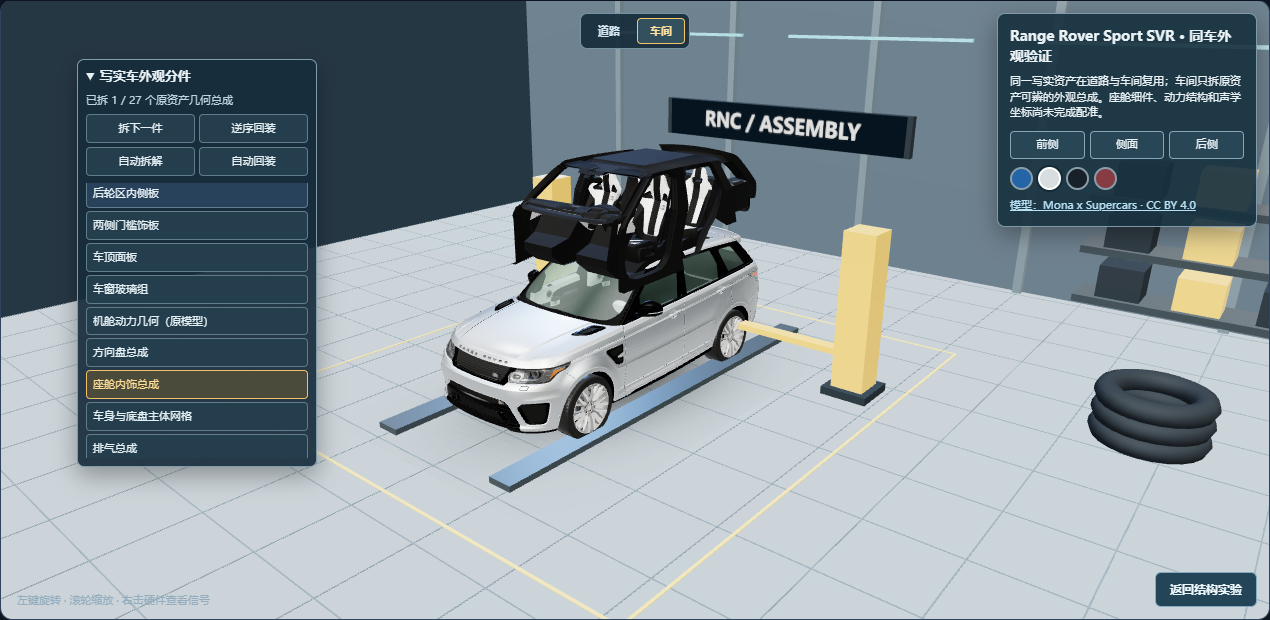
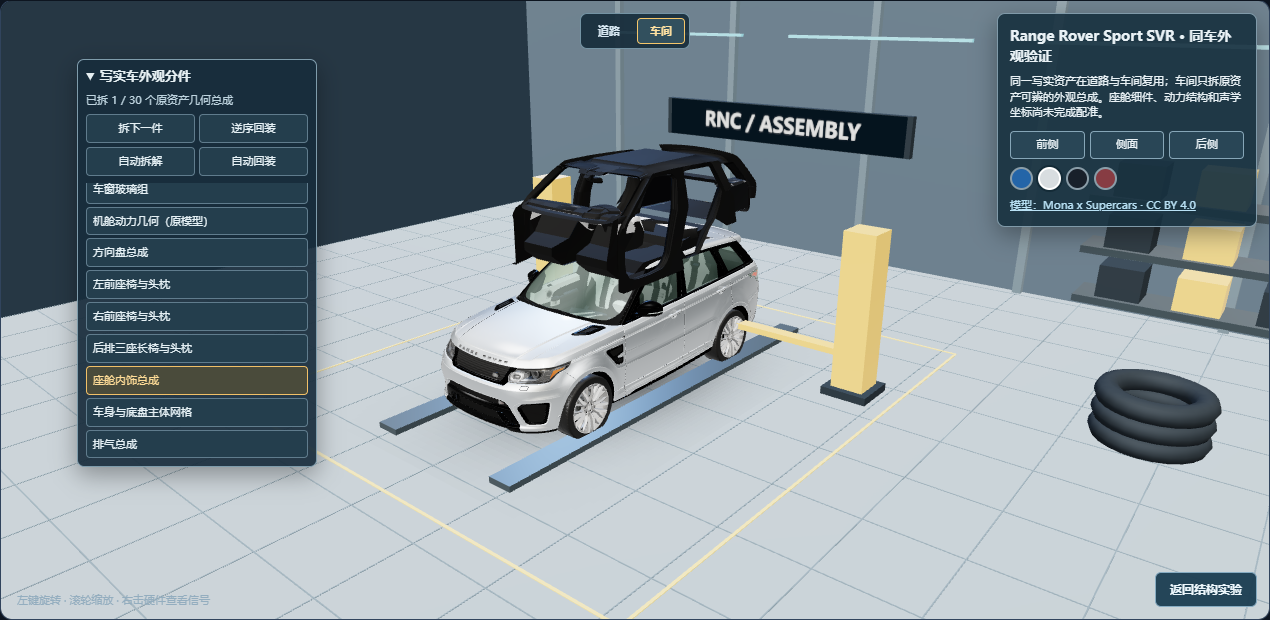
feat(a2): separate authored SUV seats and audit acoustic fit

Changed region(s): [[0.0614, 0.2758, 0.2457, 0.7355], [0.4606, 0.2758, 0.5835, 0.5516]]

diff --git a/docs/evidence/A2/A2-FULL-016/qa-real-parts.playwright-cli.js b/docs/evidence/A2/A2-FULL-016/qa-real-parts.playwright-cli.js
@@ -39,13 +39,18 @@ async (page) => {
   await page.locator('#lab-viewer').screenshot({ path: 'docs/evidence/A2/A2-FULL-016/real-workshop-interior.png' });
   await page.locator('#lab-reset').click();
   const afterReset = await panel.locator('p').innerText();
+  for (const seat of ['front-left', 'front-right', 'rear-bench']) await panel.locator(`[data-part="seat-${seat}"]`).click();
+  await page.waitForTimeout(850);
+  const afterThreeSeats = await panel.locator('p').innerText();
+  await page.locator('#lab-viewer').screenshot({ path: 'docs/evidence/A2/A2-FULL-016/real-workshop-three-seats.png' });
+  await page.locator('#lab-reset').click();
   for (const corner of ['fl', 'fr', 'rl', 'rr']) await panel.locator(`[data-part="wheel-${corner}"]`).click();
   await page.waitForTimeout(850);
   const afterFourWheels = await panel.locator('p').innerText();
   await page.locator('#lab-viewer').screenshot({ path: 'docs/evidence/A2/A2-FULL-016/real-workshop-four-wheels.png' });
   await page.locator('#lab-reset').click();
   await panel.getByRole('button', { name: '自动拆解' }).click();
-  await page.waitForFunction(() => document.querySelector('.lab-showroom-assembly p')?.textContent?.startsWith('已拆 27'), undefined, { timeout: 30000 });
+  await page.waitForFunction(() => document.querySelector('.lab-showroom-assembly p')?.textContent?.startsWith('已拆 30'), undefined, { timeout: 30000 });
   await page.waitForTimeout(850);
   const afterFullDetach = await panel.locator('p').innerText();
   await page.locator('#lab-viewer').screenshot({ path: 'docs/evidence/A2/A2-FULL-016/real-workshop-all-parts.png' });
@@ -68,7 +73,8 @@ async (page) => {
       const pivot = model.group.getObjectByName(`assembly-${part.id}`);
       const before = pivot?.position.clone();
       model.setPartProgress(part.id, 1);
-      return { id: part.id, meshCount: pivot?.children.length ?? 0, displacement: pivot && before ? pivot.position.distanceTo(before) : 0 };
+      const triangles = pivot?.children.reduce((count, child) => count + ((child.geometry.index?.count ?? child.geometry.attributes.position.count) / 3), 0) ?? 0;
+      return { id: part.id, meshCount: pivot?.children.length ?? 0, triangles, displacement: pivot && before ? pivot.position.distanceTo(before) : 0 };
     });
     const disposalCounts = new Map();
     for (const resource of [...geometries, ...materials]) {
@@ -96,9 +102,10 @@ async (page) => {
     await page.getByRole('button', { name: '返回四类动力教学模型和声学实验' }).click();
   }
   const externalResources = await page.evaluate(() => performance.getEntriesByType('resource').filter(resource => !resource.name.startsWith(location.origin)).map(resource => resource.name));
-  const authoredCounts = { 'fender-front-left': 4, 'fender-front-right': 4, 'headlight-left': 6, 'headlight-right': 6, 'front-inner-panels': 1, 'taillight-left': 5, 'taillight-right': 5, 'rear-quarters': 5, 'rear-inner-panels': 2, 'side-skirts': 4, glazing: 6, 'engine-bay': 1, 'chassis-shell': 1 };
-  if (count !== 27 || !roadStageVisible || !markersHidden || !afterTwo.startsWith('已拆 2') || stateAcrossStages !== afterTwo || !afterOne.startsWith('已拆 1') || !afterAuto.startsWith('已拆 0') || !afterEngine.startsWith('已拆 2') || !afterReset.startsWith('已拆 0') || !afterFourWheels.startsWith('已拆 4') || !afterFullDetach.startsWith('已拆 27') || !afterFullRestore.startsWith('已拆 0') || meshAudit.meshes !== 180 || meshAudit.triangles !== 74127 || meshAudit.rows.some(row => row.meshCount < 1 || row.displacement < 0.25 || (row.id.startsWith('wheel-') && row.meshCount !== 7) || (row.id in authoredCounts && row.meshCount !== authoredCounts[row.id])) || !meshAudit.resourcesDisposedOnce || !narrowClosed || !narrowUsable || fallbackPartsHidden.some(row => !row.hidden) || errors.length || externalResources.length) {
-    throw new Error(JSON.stringify({ count, roadStageVisible, markersHidden, afterTwo, stateAcrossStages, afterOne, afterAuto, afterEngine, afterReset, afterFourWheels, afterFullDetach, afterFullRestore, meshAudit, narrowClosed, narrowUsable, fallbackPartsHidden, errors, externalResources }));
+  const authoredCounts = { 'fender-front-left': 4, 'fender-front-right': 4, 'headlight-left': 6, 'headlight-right': 6, 'front-inner-panels': 1, 'taillight-left': 5, 'taillight-right': 5, 'rear-quarters': 5, 'rear-inner-panels': 2, 'side-skirts': 4, glazing: 6, 'engine-bay': 1, 'seat-front-left': 1, 'seat-front-right': 1, 'seat-rear-bench': 1, interior: 5, 'chassis-shell': 1 };
+  const seatTriangles = { 'seat-front-left': 636, 'seat-front-right': 630, 'seat-rear-bench': 498, interior: 3119 };
+  if (count !== 30 || !roadStageVisible || !markersHidden || !afterTwo.startsWith('已拆 2') || stateAcrossStages !== afterTwo || !afterOne.startsWith('已拆 1') || !afterAuto.startsWith('已拆 0') || !afterEngine.startsWith('已拆 2') || !afterReset.startsWith('已拆 0') || !afterThreeSeats.startsWith('已拆 3') || !afterFourWheels.startsWith('已拆 4') || !afterFullDetach.startsWith('已拆 30') || !afterFullRestore.startsWith('已拆 0') || meshAudit.meshes !== 183 || meshAudit.triangles !== 74127 || meshAudit.rows.some(row => row.meshCount < 1 || row.displacement < 0.25 || (row.id.startsWith('wheel-') && row.meshCount !== 7) || (row.id in authoredCounts && row.meshCount !== authoredCounts[row.id]) || (row.id in seatTriangles && row.triangles !== seatTriangles[row.id])) || !meshAudit.resourcesDisposedOnce || !narrowClosed || !narrowUsable || fallbackPartsHidden.some(row => !row.hidden) || errors.length || externalResources.length) {
+    throw new Error(JSON.stringify({ count, roadStageVisible, markersHidden, afterTwo, stateAcrossStages, afterOne, afterAuto, afterEngine, afterReset, afterThreeSeats, afterFourWheels, afterFullDetach, afterFullRestore, meshAudit, narrowClosed, narrowUsable, fallbackPartsHidden, errors, externalResources }));
   }
-  return { count, roadStageVisible, markersHidden, afterTwo, stateAcrossStages, afterOne, afterAuto, afterEngine, afterReset, afterFourWheels, afterFullDetach, afterFullRestore, meshAudit, narrowClosed, narrowUsable, fallbackPartsHidden, errors, externalResources };
+  return { count, roadStageVisible, markersHidden, afterTwo, stateAcrossStages, afterOne, afterAuto, afterEngine, afterReset, afterThreeSeats, afterFourWheels, afterFullDetach, afterFullRestore, meshAudit, narrowClosed, narrowUsable, fallbackPartsHidden, errors, externalResources };
 }

diff --git a/src/team-a/viewer/showroom-model.ts b/src/team-a/viewer/showroom-model.ts
@@ -3,6 +3,7 @@ import { GLTFLoader } from 'three/addons/loaders/GLTFLoader.js';
 import { MeshoptDecoder } from 'three/addons/libs/meshopt_decoder.module.js';
 import type { VehicleKind } from '../../shared/lab-contracts';
 import { splitFourWheelMesh, wheelCorners, type WheelCorner } from './wheel-geometry';
+import { splitInteriorSeatIslands } from './interior-geometry';
 
 // Offline assets. Their exterior groups are not RNC geometry or physical anchors.
 const assets = {
@@ -65,6 +66,8 @@ export async function loadShowroomModel(vehicle: VehicleKind): Promise<ShowroomM
   group.add(exterior);
 
   const wheelMeshes = new Map<WheelCorner, THREE.Mesh[]>(wheelCorners.map(corner => [corner, []]));
+  const seatMeshes = new Map<string, THREE.Mesh>();
+  const seatMeshSet = new Set<THREE.Mesh>();
   const replacedGeometries = new Set<THREE.BufferGeometry>();
   if (asset.id === 'range-rover') {
     group.updateMatrixWorld(true);
@@ -90,6 +93,24 @@ export async function loadShowroomModel(vehicle: VehicleKind): Promise<ShowroomM
       wheelMeshes.get(corner)!.push(mesh);
     }
     if (wheelCorners.some(corner => wheelMeshes.get(corner)!.length !== 7)) throw new Error('Incomplete Range Rover wheel corner');
+    const interiorSources: THREE.Mesh[] = [];
+    exterior.traverse(object => {
+      const mesh = object as THREE.Mesh;
+      if (mesh.isMesh && mesh.name === 'Object_88' && !Array.isArray(mesh.material) && mesh.material.name === 'rM_Interior_Max1') {
+        interiorSources.push(mesh);
+      }
+    });
+    if (interiorSources.length !== 1) throw new Error('Unexpected Range Rover interior topology');
+    const seats = splitInteriorSeatIslands(interiorSources[0]);
+    replacedGeometries.add(seats.sourceGeometry);
+    for (const [partId, region] of [
+      ['seat-front-left', 'front-left'],
+      ['seat-front-right', 'front-right'],
+      ['seat-rear-bench', 'rear-bench'],
+    ] as const) {
+      seatMeshes.set(partId, seats.pieces[region]);
+      seatMeshSet.add(seats.pieces[region]);
+    }
   }
 
   // This source has material-split meshes. Regroup only visibly distinct
@@ -119,6 +140,9 @@ export async function loadShowroomModel(vehicle: VehicleKind): Promise<ShowroomM
     { id: 'glazing', name: '车窗玻璃组', labels: ['Glass6'], offset: [0, 0.82, 0] },
     { id: 'engine-bay', name: '机舱动力几何（原模型）', labels: [], materials: ['Chassis6/rM_Engine_Max1'], offset: [0, 0.75, 0.18] },
     { id: 'steering-wheel', name: '方向盘总成', labels: ['SteeringWheel5'], offset: [0, 0.40, 0.30] },
+    { id: 'seat-front-left', name: '左前座椅与头枕', labels: [], offset: [0.56, 0.46, 0.12] },
+    { id: 'seat-front-right', name: '右前座椅与头枕', labels: [], offset: [-0.56, 0.46, 0.12] },
+    { id: 'seat-rear-bench', name: '后排三座长椅与头枕', labels: [], offset: [0, 0.62, -0.34] },
     { id: 'interior', name: '座舱内饰总成', labels: ['Interior5'], offset: [0, 0.72, 0] },
     { id: 'chassis-shell', name: '车身与底盘主体网格', labels: [], materials: ['Chassis6/rM_Chassis_Max1'], offset: [0, -0.38, 0] },
     { id: 'exhaust', name: '排气总成', labels: ['Exhausts6'], offset: [0, -0.30, -0.20] },
@@ -128,6 +152,7 @@ export async function loadShowroomModel(vehicle: VehicleKind): Promise<ShowroomM
   exterior.traverse(object => {
     const mesh = object as THREE.Mesh;
     if (!mesh.isMesh) return;
+    if (seatMeshSet.has(mesh)) return;
     let ancestor: THREE.Object3D | null = mesh.parent;
     while (ancestor && !/^r[A-Za-z]/.test(ancestor.name)) ancestor = ancestor.parent;
     const label = /^r([^_]+)_/.exec(ancestor?.name ?? '')?.[1];
@@ -143,7 +168,7 @@ export async function loadShowroomModel(vehicle: VehicleKind): Promise<ShowroomM
   const partPivots = new Map<string, { pivot: THREE.Group; origin: THREE.Vector3; offset: THREE.Vector3 }>();
   group.updateMatrixWorld(true);
   for (const spec of partSpecs) {
-    const meshes = [...spec.labels.flatMap(label => semanticMeshes.get(label) ?? []), ...(spec.materials?.flatMap(material => materialMeshes.get(material) ?? []) ?? []), ...(spec.id.startsWith('wheel-') ? wheelMeshes.get(spec.id.slice(6) as WheelCorner) ?? [] : [])];
+    const meshes = [...spec.labels.flatMap(label => semanticMeshes.get(label) ?? []), ...(spec.materials?.flatMap(material => materialMeshes.get(material) ?? []) ?? []), ...(spec.id.startsWith('wheel-') ? wheelMeshes.get(spec.id.slice(6) as WheelCorner) ?? [] : []), ...(seatMeshes.has(spec.id) ? [seatMeshes.get(spec.id)!] : [])];
     if (meshes.length === 0) throw new Error(`Missing authored assembly ${spec.id}`);
     const partBounds = new THREE.Box3();
     for (const mesh of meshes) partBounds.expandByObject(mesh);

diff --git a/src/team-a/viewer/interior-geometry.ts b/src/team-a/viewer/interior-geometry.ts
@@ -1,0 +1,83 @@
+import * as THREE from 'three';
+
+export type InteriorRegion = 'front-left' | 'front-right' | 'rear-bench' | 'remainder';
+const regions: InteriorRegion[] = ['front-left', 'front-right', 'rear-bench', 'remainder'];
+
+/** Partition the fixed Range Rover Interior5 upholstery mesh by connected source triangles. */
+export function splitInteriorSeatIslands(mesh: THREE.Mesh): {
+  pieces: Record<InteriorRegion, THREE.Mesh>;
+  sourceGeometry: THREE.BufferGeometry;
+  triangles: Record<InteriorRegion, number>;
+} {
+  const sourceGeometry = mesh.geometry;
+  const indices = sourceGeometry.getIndex();
+  const positions = sourceGeometry.getAttribute('position');
+  if (!indices || !(positions instanceof THREE.BufferAttribute) || indices.count % 3 !== 0) {
+    throw new Error(`Interior source ${mesh.name} must have indexed triangles`);
+  }
+  mesh.updateWorldMatrix(true, false);
+  const world = Array.from({ length: positions.count }, (_, i) =>
+    new THREE.Vector3().fromBufferAttribute(positions, i).applyMatrix4(mesh.matrixWorld));
+  const parent = Uint32Array.from({ length: positions.count }, (_, i) => i);
+  const find = (index: number): number => {
+    while (parent[index] !== index) { parent[index] = parent[parent[index]]; index = parent[index]; }
+    return index;
+  };
+  const union = (a: number, b: number): void => {
+    const rootA = find(a), rootB = find(b);
+    if (rootA !== rootB) parent[rootB] = rootA;
+  };
+  for (let i = 0; i < indices.count; i += 3) {
+    const a = indices.getX(i), b = indices.getX(i + 1), c = indices.getX(i + 2);
+    union(a, b); union(b, c);
+  }
+  const components = new Map<number, { bounds: THREE.Box3; ids: number[] }>();
+  for (let i = 0; i < indices.count; i += 3) {
+    const ids = [indices.getX(i), indices.getX(i + 1), indices.getX(i + 2)];
+    const root = find(ids[0]);
+    const component = components.get(root) ?? { bounds: new THREE.Box3(), ids: [] };
+    component.ids.push(...ids);
+    for (const id of ids) component.bounds.expandByPoint(world[id]);
+    components.set(root, component);
+  }
+  const buckets = Object.fromEntries(regions.map(region => [region, [] as number[]])) as Record<InteriorRegion, number[]>;
+  for (const { bounds, ids } of components.values()) {
+    const { min, max } = bounds;
+    const front = min.z >= -0.65 && max.z <= 0.55 && min.y >= 0.55 && max.y <= 1.65;
+    const dashboardOrRoof = min.z > 0.2 && min.y > 1.05;
+    const rear = min.z >= -1.7 && max.z <= -0.65 && min.y >= 0.55 && max.y <= 1.65;
+    const region: InteriorRegion = front && !dashboardOrRoof && min.x >= 0.12 && max.x <= 0.72 ? 'front-left'
+      : front && !dashboardOrRoof && max.x <= -0.12 && min.x >= -0.72 ? 'front-right'
+        : rear && min.x >= -0.72 && max.x <= 0.72 ? 'rear-bench' : 'remainder';
+    buckets[region].push(...ids);
+  }
+  const triangles = Object.fromEntries(regions.map(region => [region, buckets[region].length / 3])) as Record<InteriorRegion, number>;
+  if (triangles['front-left'] < 600 || triangles['front-right'] < 600 || triangles['rear-bench'] < 480 ||
+      regions.reduce((sum, region) => sum + triangles[region], 0) !== indices.count / 3) {
+    throw new Error(`Unexpected Range Rover seat topology: ${JSON.stringify(triangles)}`);
+  }
+  const owner = mesh.parent;
+  if (!owner) throw new Error(`Interior source has no parent: ${mesh.name}`);
+  const pieces = {} as Record<InteriorRegion, THREE.Mesh>;
+  for (const region of regions) {
+    const geometry = new THREE.BufferGeometry();
+    for (const [name, attribute] of Object.entries(sourceGeometry.attributes)) {
+      if (!(attribute instanceof THREE.BufferAttribute) || !(attribute.array instanceof Float32Array)) {
+        throw new Error(`Unsupported interior attribute ${name}: ${mesh.name}`);
+      }
+      const values = new Float32Array(buckets[region].length * attribute.itemSize);
+      buckets[region].forEach((sourceIndex, vertex) => {
+        for (let component = 0; component < attribute.itemSize; component++) {
+          values[vertex * attribute.itemSize + component] = attribute.array[sourceIndex * attribute.itemSize + component];
+        }
+      });
+      geometry.setAttribute(name, new THREE.Float32BufferAttribute(values, attribute.itemSize, attribute.normalized));
+    }
+    geometry.computeBoundingBox(); geometry.computeBoundingSphere();
+    const piece = mesh.clone(false);
+    piece.name = `${mesh.name}-${region}`; piece.geometry = geometry;
+    owner.add(piece); pieces[region] = piece;
+  }
+  owner.remove(mesh);
+  return { pieces, sourceGeometry, triangles };
+}

diff --git a/docs/evidence/A2/A2-FULL-016/audit-ice-layout.playwright-cli.js b/docs/evidence/A2/A2-FULL-016/audit-ice-layout.playwright-cli.js
@@ -1,0 +1,40 @@
+// playwright-cli run-code --filename docs/evidence/A2/A2-FULL-016/audit-ice-layout.playwright-cli.js
+async (page) => {
+  await page.goto('http://127.0.0.1:5181/');
+  return page.evaluate(async () => {
+    const THREE = await import('/node_modules/.vite/deps/three.js');
+    const { loadShowroomModel } = await import('/src/team-a/viewer/showroom-model.ts');
+    const { MIC_POSITIONS, SPEAKER_POSITIONS, SOURCE_POSITIONS } = await import('/src/shared/lab-contracts.ts');
+    const model = await loadShowroomModel('ice');
+    model.group.updateMatrixWorld(true);
+    const boundsOf = (id) => {
+      const pivot = model.group.getObjectByName(`assembly-${id}`);
+      const box = new THREE.Box3().setFromObject(pivot);
+      return { min: box.min.toArray().map(v => +v.toFixed(3)), max: box.max.toArray().map(v => +v.toFixed(3)), center: box.getCenter(new THREE.Vector3()).toArray().map(v => +v.toFixed(3)) };
+    };
+    const headrestBand = (id, side = null) => {
+      const mesh = model.group.getObjectByName(`assembly-${id}`).children[0];
+      const pos = mesh.geometry.attributes.position, point = new THREE.Vector3(), vertices = [];
+      for (let i = 0; i < pos.count; i++) {
+        point.fromBufferAttribute(pos, i).applyMatrix4(mesh.matrixWorld);
+        if (point.y < 1.34 || (side === 'left' && point.x < 0.16) || (side === 'right' && point.x > -0.16)) continue;
+        vertices.push(point.clone());
+      }
+      const box = new THREE.Box3().setFromPoints(vertices);
+      return { vertices: vertices.length, min: box.min.toArray().map(v => +v.toFixed(3)), max: box.max.toArray().map(v => +v.toFixed(3)), center: box.getCenter(new THREE.Vector3()).toArray().map(v => +v.toFixed(3)) };
+    };
+    const result = {
+      source: model.source,
+      wheelBounds: Object.fromEntries(['fl', 'fr', 'rl', 'rr'].map(corner => [corner, boundsOf(`wheel-${corner}`)])),
+      seatBounds: Object.fromEntries(['seat-front-left', 'seat-front-right', 'seat-rear-bench'].map(id => [id, boundsOf(id)])),
+      headrestBands: {
+        frontLeft: headrestBand('seat-front-left'), frontRight: headrestBand('seat-front-right'),
+        rearLeft: headrestBand('seat-rear-bench', 'left'), rearRight: headrestBand('seat-rear-bench', 'right'),
+      },
+      frontDoorBounds: { left: boundsOf('door-left'), right: boundsOf('door-right') },
+      existingShared: { microphones: MIC_POSITIONS, speakers: SPEAKER_POSITIONS, wheelSources: SOURCE_POSITIONS },
+    };
+    model.dispose();
+    return result;
+  });
+}

diff --git a/docs/evidence/A2/A2-FULL-016/qa-real-parts-production.playwright-cli.js b/docs/evidence/A2/A2-FULL-016/qa-real-parts-production.playwright-cli.js
@@ -14,11 +14,12 @@ async (page) => {
   const partCount=await panel.locator('.lab-assembly-list button').count();
   await panel.locator('[data-part="hood"]').click();
   await panel.locator('[data-part="wheel-fl"]').click();
+  await panel.locator('[data-part="seat-front-left"]').click();
   const before=await panel.locator('p').innerText();
   await road.click(); await workshop.click();
   const after=await panel.locator('p').innerText();
   const loaded=await page.evaluate(()=>performance.getEntriesByType('resource').filter(resource=>resource.name.includes('range-rover-sport-svr')&&resource.name.startsWith(location.origin)).length);
   const external=await page.evaluate(()=>performance.getEntriesByType('resource').filter(resource=>!resource.name.startsWith(location.origin)).map(resource=>resource.name));
-  if(partCount!==27||!before.startsWith('已拆 2')||after!==before||loaded!==1||errors.length||external.length)throw new Error(JSON.stringify({partCount,before,after,loaded,errors,external}));
+  if(partCount!==30||!before.startsWith('已拆 3')||after!==before||loaded!==1||errors.length||external.length)throw new Error(JSON.stringify({partCount,before,after,loaded,errors,external}));
   return {partCount,before,after,loaded,errors,external};
 }

diff --git a/docs/evidence/A2/A2-FULL-016/README.md b/docs/evidence/A2/A2-FULL-016/README.md
@@ -19,11 +19,13 @@
 
 ## 同批续进：同一写实 ICE 外观跨道路与车间
 
-Range Rover 外观资产现在在道路、车间复用**同一个加载实例**。车间列出原 GLB 中可核实的 27 个几何总成：前/后保险杠、前舱盖、左右前翼子板与灯组、前后轮区内侧板、左右前门、四个独立轮端、尾门、左右后灯、后侧围、门槛、车顶、车窗玻璃、机舱动力网格、方向盘、座舱内饰整体、车身/底盘主体网格和排气。它们是**这份美术资产的可辨几何分组**，不是 27 个经原厂零件目录核对的机械总成。GLB 原始 171 个 mesh 主要按材质切分，不是 171 个零件。轮胎、制动盘、卡钳虽各合为一个 mesh，但逐三角形审计发现四个空间分离的轮位：每轮分别有 360、256、148 个三角形，没有三角形跨越前后/左右中线；16 个轮辋 mesh 也能按真实空间位置各归 4 个。加载器保留原顶点属性，把三张合并网格的三角形按轮位重组，四个轮端各含 7 个原资产来源网格，不复制单轮几何，也不增加三角形。机舱动力网格按 `Chassis6` 父节点与 `rM_Engine_Max1` 材质双重归属提取，避免误带前舱盖/尾门中同材质的网格。后侧围不是可核实的各后门，座椅也不能从复杂内饰网格可靠分出。27 组支持单件、顺序自动拆解、暂停、逆序回装及场景切换保留状态。BEV 资产尚无可核实分组；HEV/EREV 仍只是 Range Rover 外观参考，均不展示这 27 组为本车型真实结构。
+Range Rover 外观资产现在在道路、车间复用**同一个加载实例**。车间列出原 GLB 中可核实的 30 个几何总成：前/后保险杠、前舱盖、左右前翼子板与灯组、前后轮区内侧板、左右前门、四个独立轮端、尾门、左右后灯、后侧围、门槛、车顶、车窗玻璃、机舱动力网格、方向盘、左右前排带头枕座椅、带三个头枕的后排长椅、座舱其余内饰、车身/底盘主体网格和排气。它们是**这份美术资产的可辨几何分组**，不是 30 个经原厂零件目录核对的机械总成。GLB 原始 171 个 mesh 主要按材质切分，不是 171 个零件。轮胎、制动盘、卡钳虽各合为一个 mesh，但逐三角形审计发现四个空间分离的轮位：每轮分别有 360、256、148 个三角形，没有三角形跨越前后/左右中线；16 个轮辋 mesh 也能按真实空间位置各归 4 个。加载器保留原顶点属性，把三张合并网格的三角形按轮位重组，四个轮端各含 7 个原资产来源网格，不复制单轮几何，也不增加三角形。内饰 `Object_88` 的 4,024 个三角形按**连通几何岛及实际三维包围盒**划分为左前座 636、右前座 630、后排长椅 498、其余内饰 2,260 个；原材质、法线、UV 和三角形总数不变。后排是一个长椅总成，不假称三个独立座椅机构。机舱动力网格按 `Chassis6` 父节点与 `rM_Engine_Max1` 材质双重归属提取，避免误带前舱盖/尾门中同材质的网格。后侧围仍不是可核实的各后门。30 组支持单件、顺序自动拆解、暂停、逆序回装及场景切换保留状态。BEV 资产尚无可核实分组；HEV/EREV 仍只是 Range Rover 外观参考，均不展示这 30 组为本车型真实结构。
 
-[开发页实测脚本](qa-real-parts.playwright-cli.js)和[结果](real-parts-browser-result.json)检查：原资产 171 mesh 在轮系拆分后为 180 个渲染 mesh，仍为 74,127 个三角形；运行中的 180 份几何和 30 份材质均恰好释放一次。27 组各有非空真实子网格，四个轮端各 7 个。道路→车间时同一外观，前舱盖与左前门拆出后状态为2/27，往返道路仍为2/27，手动逆序与自动回装到0/27；四轮分别拆出达4/27并可复位；完整自动拆解到27/27再逆序回装到0/27。写实模式物理标记仍隐藏，页面异常/外网请求0；360px窗口拆装面板收起后可打开，HEV/EREV/BEV不显示这27组。实渲染原图：[道路后视](real-road-ice.png)、[车间合拢](real-workshop-assembled.png)、[前舱盖与车门拆出](real-workshop-two-parts.png)、[机舱网格拆出](real-workshop-engine-bay.png)、[四轮端拆出](real-workshop-four-wheels.png)、[27组拆出](real-workshop-all-parts.png)、[完整回装](real-workshop-restored.png)、[内饰整体移出](real-workshop-interior.png)、[窄屏车间](real-workshop-narrow.png)。[生产预览脚本](qa-real-parts-production.playwright-cli.js)重查同源GLB按需加载及跨场景拆件状态。
+[开发页实测脚本](qa-real-parts.playwright-cli.js)和[结果](real-parts-browser-result.json)检查：原资产 171 mesh 在轮系和座椅拆分后为 183 个渲染 mesh，仍为 74,127 个三角形；运行中的 183 份几何和 30 份材质均恰好释放一次。30 组各有非空真实子网格，四个轮端各 7 个、三个座椅组各 1 个。道路→车间时同一外观，前舱盖与左前门拆出后状态为2/30，往返道路仍为2/30，手动逆序与自动回装到0/30；三组座椅分别拆出达3/30、四轮分别拆出达4/30，均可复位；完整自动拆解到30/30再逆序回装到0/30。写实模式物理标记仍隐藏，页面异常/外网请求0；360px窗口拆装面板收起后可打开，HEV/EREV/BEV不显示这30组。实渲染原图：[道路后视](real-road-ice.png)、[车间合拢](real-workshop-assembled.png)、[前舱盖与车门拆出](real-workshop-two-parts.png)、[机舱网格拆出](real-workshop-engine-bay.png)、[三组座椅拆出](real-workshop-three-seats.png)、[四轮端拆出](real-workshop-four-wheels.png)、[30组拆出](real-workshop-all-parts.png)、[完整回装](real-workshop-restored.png)、[内饰其余部分移出](real-workshop-interior.png)、[窄屏车间](real-workshop-narrow.png)。[生产预览脚本](qa-real-parts-production.playwright-cli.js)重查同源GLB按需加载及跨场景拆件状态。
 
-试把现有教学车的外壳/轮系隐藏、内部与声学点放进 Range Rover 时，浏览器[原始配准失败图](rejected-shell-overlay.png)显示教学头枕穿出车顶，教学仪表台压在前舱盖外，MIC不贴头枕；因此**未把两套资产简单叠加进产品**。进一步检查内饰主体发现它由大量小几何岛混合而成，没有可直接验证的独立五座语义分组。JLR 的[2014年原厂发布资料](https://media.jlr.com/corporate/news/2014/08/pebble-beach-debut-new-range-rover-sport-svr-fastest-most-powerful-land-rover-ever)与[车型规格册](https://www.landrover.co.uk/content/dam/lrdx/pdfs/uk/brochures/misc/RANGE-ROVER-SPORT-SVR_tcm295-140483.pdf)确认该代 SVR 为纵置 5.0 升机械增压 V8、ZF 8HP70 八速自动变速箱、四轮驱动；**原 GLB 并非原厂 CAD**，本批只把其中可见的机舱动力表面单列，未核实其缸体、变速箱、传动轴、悬架的精确构形。当前写实资产的 27 组不是完整机械/电驱结构；与四类教学模型、RNC物理锚点和算法尚未统一，仍不能按用户三图最终签收。下一步须按写实车尺寸制作并核验独立座椅、底盘/传动/悬架件及安装位，再由A1/集成协调者与B组同步车型布局契约和数值重验。
+试把现有教学车的外壳/轮系隐藏、内部与声学点放进 Range Rover 时，浏览器[原始配准失败图](rejected-shell-overlay.png)显示教学头枕穿出车顶，教学仪表台压在前舱盖外，MIC不贴头枕；因此**未把两套资产简单叠加进产品**。本批改为从该写实车**自身的座舱网格**中取两张前座及后排长椅，排除了中控台/顶棚碎片，实渲染可见座椅带头枕并能独立于剩余内饰拆出；这仍只是美术形面归属，后排没有三个独立座椅机构，也未提供座椅滑轨或安全约束精度。JLR 的[2014年原厂发布资料](https://media.jlr.com/corporate/news/2014/08/pebble-beach-debut-new-range-rover-sport-svr-fastest-most-powerful-land-rover-ever)与[车型规格册](https://www.landrover.co.uk/content/dam/lrdx/pdfs/uk/brochures/misc/RANGE-ROVER-SPORT-SVR_tcm295-140483.pdf)确认该代 SVR 为纵置 5.0 升机械增压 V8、ZF 8HP70 八速自动变速箱、四轮驱动；**原 GLB 并非原厂 CAD**，本批只把其中可见的机舱动力表面单列，未核实其缸体、变速箱、传动轴、悬架的精确构形。当前写实资产的 30 组不是完整机械/电驱结构；与四类教学模型、RNC物理锚点和算法尚未统一，仍不能按用户三图最终签收。下一步须按写实车尺寸制作并核验底盘/传动/悬架件及安装位，再由A1/集成协调者与B组同步车型布局契约和数值重验。
+
+[同车坐标复测脚本](audit-ice-layout.playwright-cli.js)与[原始 JSON](ice-layout-audit.json)按4.8米车长归一化后从本批真网格测得：前轮中心约 `(±0.815, 0.372, 1.514)` m，后轮中心约 `(±0.815, 0.372, -1.325)` m；前排头枕上部包围盒中心约 `(±0.457, 1.444, -0.368)` m，后排左右头枕约 `(±0.429, 1.416, -1.272)` m。后者只是**几何中心候选**，尚非麦克风安装点。现[共享物理契约](../../../../src/shared/lab-contracts.ts)前排 MIC 为 `(±0.48, 1.65, 0.4)` m，比写实头枕中心高约0.206 m、朝车头偏约0.768 m；后排 MIC 比写实头枕中心高约0.234 m、朝车头偏约0.262 m。因此目前写实模式继续隐藏物理标记，而不能只在A2画面挪标签。下一步由A1/集成协调者与B组建立**按车型版本化的布局契约**，在同一布局里同时给出头枕麦克风、四门扬声器、轮端噪声源和参考传感器坐标，并重验B组路径与声场。现有前门外形可测，GLB尚无独立扬声器网格或可验证的后门分件，四门扬声器仍需按该车门板制作并核验。
 
 用户要求优先提升车辆的真实质感，并允许直接找现成模型。本批在既有四类教学 SUV 旁增加一个独立外观欣赏模式；**没有**用品牌模型替换教学车的机械/电驱结构或声学坐标。外观模式隐藏物理标记、声场和剖面讲解；返回后原教学模型及交互恢复。更换动力类型也自动返回教学视图，避免把真实品牌外观当成所选动力架构的实车。
 

diff --git a/开发记录.md b/开发记录.md
@@ -10,16 +10,18 @@
 同车资产结构初筛：[审计脚本及结果](docs/evidence/A2/A2-FULL-016/README.md)显示 Range Rover 171 mesh/512 node，可从父节点名提取37类候选分组，但 mesh 本身全为通用名称，转轴/真实可拆性未验；Model Y 84 mesh/86 node 的 mesh 全为通用名且无语义父节点。两款均不能直接等同参考图的28个可动分组，更不能证明内部动力结构相同。下一步先选一车人工核对可分件与锚点，再让道路/车间/声学切片改用这一套同车几何；HEV/EREV 与目标核显仍待完成。
 同批坐标核验：按现展示比例，Range Rover车顶1.770 m、Model Y仅1.416 m，而全局MIC锚点固定`y=1.65 m`，在Model Y车顶以上0.234 m；[可复现GLB坐标脚本](docs/evidence/A2/A2-FULL-016/audit-spatial-fit.mjs)和计算结果见A2证据。把GLB直接罩在旧教学车上的暂存实验还出现BEV旧格栅/门板穿出车身，故未提交这条叠模代码。正确方向是车型专属几何/物理锚点契约，与B组路径同步；A2单独移动3D标记会破坏声学一致性。需A1/集成协调者定稿共管接口，B组重验路径，A2以相同布局重建同车分件和场景。
 同批可运行切片：A2 viewer 已加入三维道路/车间，原四类教学车共用场景切换；车间可点选部件、逐件/自动拆解、暂停、逆序回装与复位。可动组分别33/33/36/37，拆下座椅/前门后MIC/门扬声器显示引导端点跟随，切场景保持状态。`pnpm check` 69/69测试、类型/边界/生产构建通过；浏览器四车、窄屏及拆装流程通过，脚本与原图见[A2本批证据](docs/evidence/A2/A2-FULL-016/README.md)。这仍是原创低多边形教学车，品牌GLB与内部尚非同车，用户图示的最终质感/精度与车型专属声学锚点未达标；A1/B/shared运行文件未改。
-同批写实车进一步推进：ICE Range Rover GLB 在道路和车间复用同一实例，27个有原资产几何归属的外观/轮端/机舱可见网格总成可拆解/回装。三张合并轮系网格逐三角形分出四轮；前后灯、前翼子板、机舱可见网格、玻璃和车身/底盘主体按原节点/材质分组；原171 mesh变为运行时180 mesh，总数74,127三角形不变。27是美术资产分组数，**不是完整机械零件精度**；后门、独立座椅和传动/悬架件仍不能可靠分出。完整27/27自动拆出、0/27逆序回装、场景往返、窄屏及同源加载脚本/原图见[A2本批证据](docs/evidence/A2/A2-FULL-016/README.md)。把旧教学内部塞进该车的实渲染显示头枕与仪表台明显穿模，已否决并留失败原图。当前仅写实**外观/轮端/机舱可见网格**同车跨场景，独立座椅、精确动力、四类车型和声学锚点未统一；写实模式继续隐藏物理标记，避免视觉与B组计算相矛盾。A1/B/shared运行文件未改。
+同批写实车进一步推进：ICE Range Rover GLB 在道路和车间复用同一实例，30个有原资产几何归属的外观/轮端/座椅/机舱可见网格总成可拆解/回装。三张合并轮系网格逐三角形分出四轮；内饰 `Object_88` 的4,024三角形按连通岛和实空间边界分出左/右前座636/630三角形、后排长椅498三角形，保留剩余内饰；前后灯、前翼子板、机舱可见网格、玻璃和车身/底盘主体按原节点/材质分组。原171 mesh变为运行时183 mesh，总数74,127三角形不变。30是美术资产分组数，**不是完整机械零件精度**；后门、后排独立座椅机构和传动/悬架件仍不能可靠分出。完整30/30自动拆出、0/30逆序回装、场景往返、窄屏及同源加载脚本/原图见[A2本批证据](docs/evidence/A2/A2-FULL-016/README.md)。把旧教学内部塞进该车的实渲染显示头枕与仪表台明显穿模，已否决并留失败原图。当前写实**外观/座椅/轮端/机舱可见网格**同车跨场景，但精确动力、四类车型和声学锚点未统一；写实模式继续隐藏物理标记，避免视觉与B组计算相矛盾。A1/B/shared运行文件未改。
 
-本批验证：`pnpm check` 类型/边界/69项测试/生产构建通过；开发页真实浏览器检查27组非空、四轮分别拆出4/27、机舱几何单独拆出、27/27自动拆解和0/27完整回装、道路/车间状态保持、窄屏及三种非ICE车型隐藏写实分件，页面异常与外网请求均0；生产预览复核27组、前舱盖+左前轮跨场景保持2/27、同源GLB仅加载一次。运行时180份几何及30份材质恰好释放一次，74,127三角形未变。证据和限制见[A2-FULL-016](docs/evidence/A2/A2-FULL-016/README.md)。
+本批验证：`pnpm check` 类型/边界/69项测试/生产构建通过；开发页真实浏览器检查30组非空、三组座椅分别拆出3/30、四轮分别拆出4/30、机舱几何单独拆出、30/30自动拆解和0/30完整回装、道路/车间状态保持、窄屏及三种非ICE车型隐藏写实分件，页面异常与外网请求均0；生产预览复核30组、前舱盖+左前轮+左前座跨场景保持3/30、同源GLB仅加载一次。运行时183份几何及30份材质恰好释放一次，74,127三角形未变。证据和限制见[A2-FULL-016](docs/evidence/A2/A2-FULL-016/README.md)。
+
+同车物理布局审计：由写实ICE模型原网格测得前排头枕上部几何中心约 `(±0.457, 1.444, -0.368)` m、后排左右约 `(±0.429, 1.416, -1.272)` m；共享旧前排MIC `(±0.48, 1.65, 0.4)` m 相对该车前排头枕朝车头偏约0.768 m。四轮中心及头枕包围盒的[浏览器脚本和原始JSON](docs/evidence/A2/A2-FULL-016/README.md)已归档，几何中心尚不是实际传感器安装点。此差异需A1/集成协调者与B组在同一车型布局契约中修改画面及数值；本端不只移动写实模式标签来伪装同车声学。
 
 旧阶段PR #5/#6已合入**原仓库main** `1bb8a23`；完整目标当前整合在 fork/main 和[A1/整合草稿PR #23](https://github.com/KnowCooker/RNC_3D_SIMULATION/pull/23)，A2新独立进度在[草稿PR #24](https://github.com/KnowCooker/RNC_3D_SIMULATION/pull/24)。旧完整目标阶段PR #7～#22已关闭为被当前整合提交包含的历史批次，并非合入原仓库main。#20的源码已在 fork/main 和 #24，旧 PR 已关闭、旧远端分支已删除；fork 只保留 main、A1、A2 当前三分支。[当前分支与备份](docs/coordination/CURRENT_BRANCHES.md)记录接续入口。各批已验证源码SHA仍由其证据报告固定。两端读取[协作入口](docs/coordination/README.md)、[A1](docs/coordination/A1.md)、[A2](docs/coordination/A2.md)，继续按各自目录开发。
 
 | 责任 | 本轮已有实现 | 实际验证 | 下一步 |
 | --- | --- | --- | --- |
 | A1 | 原实验界面/16秒回放、持续仿真与试听；#21暂停态移动场重查；#23有界音频预取质量改进 | #23`pnpm check`67/67；同脚本1.05秒阻塞/首次三维操作0补缓冲，[固定候选1204.22秒长稳](docs/evidence/A1/A1-FULL-008/stability/README.md)15项门槛通过；[当前同机离线候选](docs/evidence/A1/A1-FULL-008/offline/README.md)45/45检查通过 | 真实后台、实物音画、目标设备、第二机断网及正式交付 |
-| A2 | #7四类结构/真实截面；#8–#20分批视觉/结构/声场检视；#24两款写实外观参考、原创教学车道路/车间切片、ICE同资产27个可核实几何组拆装 | 两款资产许可/离线守护；四车33/33/36/37组教学拆装与ICE 27组真实资产回归；本批 `pnpm check` 结果见下方记录 | 写实车外观/座舱/内部/声学同车配准、其余三类合规高质资产与真分件、目标核显与全应用同版回归 |
+| A2 | #7四类结构/真实截面；#8–#20分批视觉/结构/声场检视；#24两款写实外观参考、原创教学车道路/车间切片、ICE同资产30个可核实几何组拆装 | 两款资产许可/离线守护；四车33/33/36/37组教学拆装与ICE 30组真实资产回归；本批 `pnpm check` 结果见下方记录 | 写实车外观/座舱/内部/声学同车配准、其余三类合规高质资产与真分件、目标核显与全应用同版回归 |
 | B | 新持续处理器保留源、路径、FxLMS状态；固定内存历史；原批量与任意点场保留 | B组23项含6项流式数值；首16秒逐样本等同批量，跨块/越环/场前史及失败状态通过 | 更多工况与目标设备验证，配合持续运行质量 |
 | 集成 | Worker持续协议、真实场绝对时间、取消/错误隔离；目录边界保持；INTEGRATION-FULL-021组合 A2 #20 + A1 #21 | `pnpm check` 67/67；同版四车真实场/改制/实时暂停及[组合版1210.65秒长稳](docs/evidence/full-lab/integration-021/stability/README.md)15项门槛通过；首实时run有2次补缓冲 | 试听质量、后续最终版长稳、设备/包/录像，按依赖顺序审查PR |
 

diff --git a/docs/coordination/A2_UNIFIED_3D_SCENE.md b/docs/coordination/A2_UNIFIED_3D_SCENE.md
@@ -11,7 +11,7 @@
 
 ## 资产现状与第一道门槛
 
-当前 #24 的 Range Rover GLB 原始文件有 171 mesh、512 node，可从父节点名初筛 37 类车门、内饰、轮系和底盘等前缀，但实际 mesh 节点仍是 `Object_N`；经过人工归属与四轮三角形审计后，已有下述27个可逆美术几何组。Tesla Model Y 有 84 mesh、86 node，84 个 mesh 节点全部是通用 `Object_N`，尚无可核实的语义分组。用户截图中的 28 个可动分组是质量参照，不能把美术分组数或材质网格数当作真实机械零件精度。Range Rover 虽已在道路/车间复用同一实例，仍未与四类教学车的部件、门扬声器或声场锚点配准；Model Y 仍仅作独立外观展示。HEV/EREV 仍无独立合规高质资产。可复现审计脚本、来源和许可见 [A2证据](../evidence/A2/A2-FULL-016/README.md)。
+当前 #24 的 Range Rover GLB 原始文件有 171 mesh、512 node，可从父节点名初筛 37 类车门、内饰、轮系和底盘等前缀，但实际 mesh 节点仍是 `Object_N`；经过人工归属、四轮三角形及座椅连通岛审计后，已有下述30个可逆美术几何组。Tesla Model Y 有 84 mesh、86 node，84 个 mesh 节点全部是通用 `Object_N`，尚无可核实的语义分组。用户截图中的 28 个可动分组是质量参照，不能把美术分组数或材质网格数当作真实机械零件精度。Range Rover 虽已在道路/车间复用同一实例，仍未与四类教学车的部件、门扬声器或声场锚点配准；Model Y 仍仅作独立外观展示。HEV/EREV 仍无独立合规高质资产。可复现审计脚本、来源和许可见 [A2证据](../evidence/A2/A2-FULL-016/README.md)。
 
 [坐标审计脚本](../evidence/A2/A2-FULL-016/audit-spatial-fit.mjs)按当前展示规范把两车长度缩至4.8 m并落地：Range Rover 包围盒高度1.770 m，Model Y 为1.416 m；共享契约的四个MIC固定在 `y=1.65 m`，因此在Model Y车顶以上至少0.234 m。当前B组 `paths.ts`、`index.ts`、`stream.ts` 直接使用同一组 `MIC_POSITIONS`、`SPEAKER_POSITIONS`、`SOURCE_POSITIONS`。这不是简单改画面可以解决的：需要各车型真实几何锚点与物理路径共享的**车型布局契约**，由集成协调者/B组同步修改和数值重验。临时将GLB与旧教学件直接叠放也已实渲染否决：BEV前格栅/门板穿出新车壳，MIC浮在车顶外。
 
@@ -24,6 +24,6 @@
 5. 保存四车的道路、车间合拢、逐件拆解、回装及声学视图的同版本原图/录像；固定机位与用户三图作人工质量对照，再测目标核显与完整页稳定性。当前独立 showroom 截图不能充当该证据。
 
 当前进展：第3步已有可运行的三维道路、车间与原创教学车的逐件/自动拆装切片，四车型可动组 33/33/36/37，场景切换保持状态；[运行证据](../evidence/A2/A2-FULL-016/README.md)有脚本及原图。它验证场景和操作流，但**第1、2步的同车高质资产与锚点尚未通过**，故不将该切片判作同车终点，也不解除第4、5步的协调和验收。
-同批写实纵向切片：ICE Range Rover 外观已复用同一 GLB 实例于道路和车间，车间用原资产真实网格组成 27 个可拆几何总成，完整自动拆解/回装已验证。四轮的轮胎、制动盘、卡钳已按各自原始三角形和轮辋真实位置拆成四个独立轮端，整车三角形数不变；前后灯、前翼子板、机舱可见网格、玻璃、车身/底盘主体等另按原资产节点/材质验证归属。27 是**美术资产分组数**，不等于参考图或原厂机械零件精度；后门、独立座椅、传动/悬架件和RNC点位尚未配准。两套独立切片尚需收束为**一套同车外壳、内部和物理布局**；不能用任何一套单独的通过结果替代终点。
+同批写实纵向切片：ICE Range Rover 外观已复用同一 GLB 实例于道路和车间，车间用原资产真实网格组成 30 个可拆几何总成，完整自动拆解/回装已验证。四轮的轮胎、制动盘、卡钳已按原始三角形和轮辋真实位置拆成四个独立轮端；左右前排带头枕座椅及后排三座长椅从同一写实车内饰网格的连通岛中分出；整车三角形数不变。前后灯、前翼子板、机舱可见网格、玻璃、车身/底盘主体等另按原资产节点/材质验证归属。30 是**美术资产分组数**，不等于参考图或原厂机械零件精度；后门、后排独立座椅机构、传动/悬架件和RNC点位尚未配准。两套独立切片尚需收束为**一套同车外壳、内部和物理布局**；不能用任何一套单独的通过结果替代终点。
 
 跨组接口需求（待 A1/集成协调者与B组定稿）：`sceneMode = road | workshop | acoustic`、当前车型与部件拆装状态、选中部件、自动演示进度；以及每车型轮端/参考/门扬声器/头枕MIC的规范几何与物理锚点。A2按真实资产导出布局，B组用同一布局计算传播路径和误差信号，集成协调者负责版本化契约；展示变换不得写回物理坐标。现有 `LabConfig`、`FieldFrame` 和 viewer 回调在此阶段不擅自改动。

diff --git a/docs/coordination/A2.md b/docs/coordination/A2.md
@@ -18,7 +18,8 @@
 - 接续定位：当前 A2 唯一分支 `a/a2-full-016-showroom`，草稿 PR #24；准确最新 SHA 以 PR HEAD 为准。允许范围仍为 viewer、A2 测试/证据、本页和根日志；下一步优先核验 HEV/EREV 合规高质模型、四车真实感和指定核显，不能沿用本机 RTX 4070 结果代替目标设备。
 - 同批性能续进：viewer内部缓冲现按CSS面积/DPR限制为≤1280×720等效像素，保留宽高比、标签和拾取；1920×1080完整页实测CSS 1588×618、内部1538×598，模拟2×DPR仍在预算内；窄窗标记与REF FL点选通过。[脚本与原图](../evidence/A2/A2-FULL-016/README.md)随PR保存。只是为指定核显验收做预算准备，**尚未**在指定核显上测≥30fps。HEV/EREV候选中RAV4 Hybrid/Li Auto L7的高细节版本是非商业许可，未纳入包；其他转载文件的原始授权链未核实，不直接采用。
 - 同批场景/拆装续进：viewer 私有场景现有三维海岸道路与车间，同一原创教学车在两处切换；车间可手动/自动逐件拆装、暂停和逆序回装，四车型组数33/33/36/37，标记显示随安装件移动。本机 Chromium 四车型场景、拆装/复位、360px窄屏及原写实外观入口已复核，[脚本与原图](../evidence/A2/A2-FULL-016/README.md)见证据。它仍未把品牌 GLB 与教学结构合为同车；A1/B/shared接口未改，车型专属几何与声学锚点须与集成协调者/B组定稿后再接入。
-- 同批写实资产续进：ICE Range Rover 的**同一 GLB**已在三维道路/车间复用，车间对原网格中可辨的前舱盖、左右前门、四个独立轮端、前后灯组、机舱可见网格、玻璃及车身/底盘主体等27个几何总成做可逆拆装，并完成27/27自动拆出、0/27逆序回装浏览器验证。原始171 mesh中的三张合并轮系网格按实际三角形拆分，运行时为180 mesh，74,127三角形不变；每轮端另含原轮辋四张网格。27是美术资产分组，不是原厂零件数量。后门、独立座椅、传动/悬架件仍不能可靠分出，叠放旧教学内部失败图显示头枕/仪表台穿模，未提交叠模方案。[原图、分件回归及局限](../evidence/A2/A2-FULL-016/README.md)可接续。后续仍须补建/核验同车内部与专属声学物理坐标，当前写实模式不显示物理标记；HEV/EREV与BEV未有同等级真分件。
+- 同批写实资产续进：ICE Range Rover 的**同一 GLB**已在三维道路/车间复用，车间对前舱盖、左右前门、四个独立轮端、前后灯组、机舱可见网格、玻璃、左右前排带头枕座椅、后排三座长椅及车身/底盘主体等30个原资产几何总成做可逆拆装，并完成30/30自动拆出、0/30逆序回装浏览器验证。原始171 mesh中的三张合并轮系网格按实际三角形拆分，内饰 `Object_88` 按连通岛和空间包围盒保留原三角形拆为座椅/其余内饰；运行时183 mesh，74,127三角形不变。30是美术资产分组，不是原厂零件数量。后门、后排三个独立座椅机构、传动/悬架件仍不能可靠分出，叠放旧教学内部失败图显示头枕/仪表台穿模，未提交叠模方案。[原图、分件回归及局限](../evidence/A2/A2-FULL-016/README.md)可接续。后续仍须核验同车机械结构与专属声学物理坐标，当前写实模式不显示物理标记；HEV/EREV与BEV未有同等级真分件。
+- 同车声学布局交接：[坐标审计与原始结果](../evidence/A2/A2-FULL-016/README.md)给出ICE写实车四轮及前后排头枕的实际网格包围盒；前排头枕上部几何中心约 `(±0.457, 1.444, -0.368)` m，后排左右约 `(±0.429, 1.416, -1.272)` m。共享前排MIC `(±0.48, 1.65, 0.4)` m 朝车头偏约0.768 m，不能直接拿旧车信号叠到写实车上。几何中心不是最终传感器安装点；A1/集成协调者与B组需用按车型版本化的物理布局同时改信号路径和viewer标记，并核验四门扬声器/参考安装位。A2不单写shared或B运行源码。
 
 ### A2-FULL-015 四车型共用侧围、门槛与轮眉连续性
 
